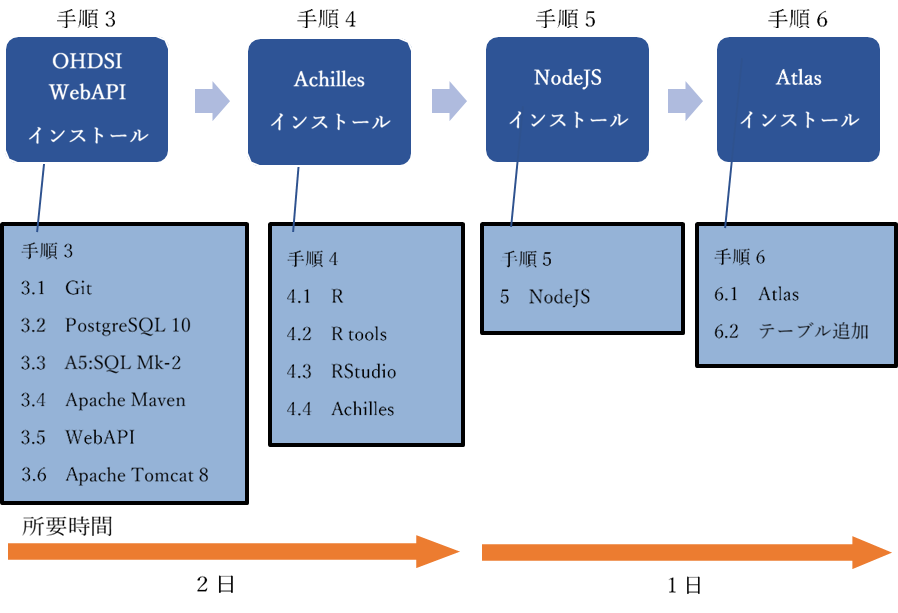
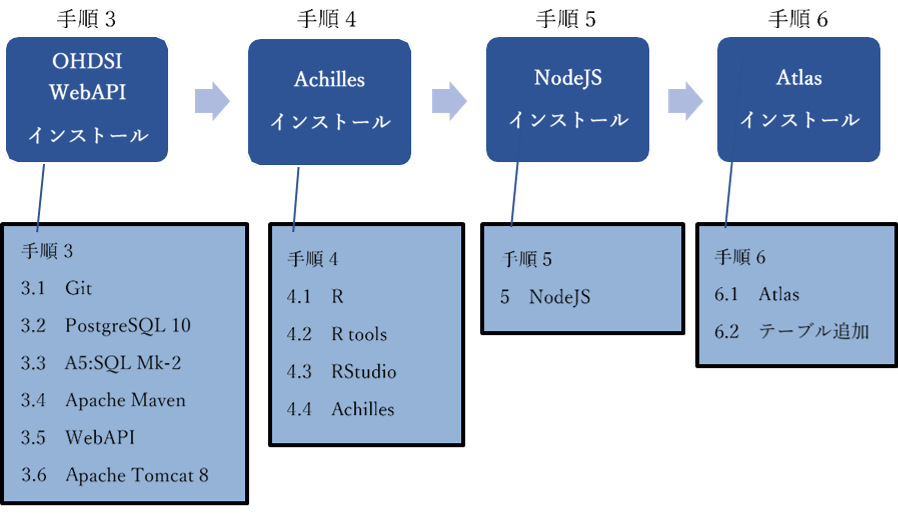
想定日数削除

diff --git a/Files/Atlas_setup.html b/Files/Atlas_setup.html
@@ -143,7 +143,7 @@ hr {
 h1 {
 	padding-bottom: 0.3em;
 	line-height: 1.2;
-	border-bottom-width: 1px;
+	border-bottom-width: 2px;
 	border-bottom-style: solid;
 }
 
@@ -552,7 +552,7 @@ table td {
 </tbody>
 </table>
 <br>
-<p>セットアップに要する総作業時間は3日を想定しています。</p>
+<!-- <p>セットアップに要する総作業時間は3日を想定しています。</p> -->
 <p>※テストデータのインポートは、Atlas のセットアップ完了後に行ってください<a href="https://rwd-data-environment-in-hospital.github.io/Documents/Files/Eunomia_setup.html" target="_blank" rel="nofollow noopener">「Eunomia テストデータのセットアップ」</a></p>
 <br>
 <hr>
